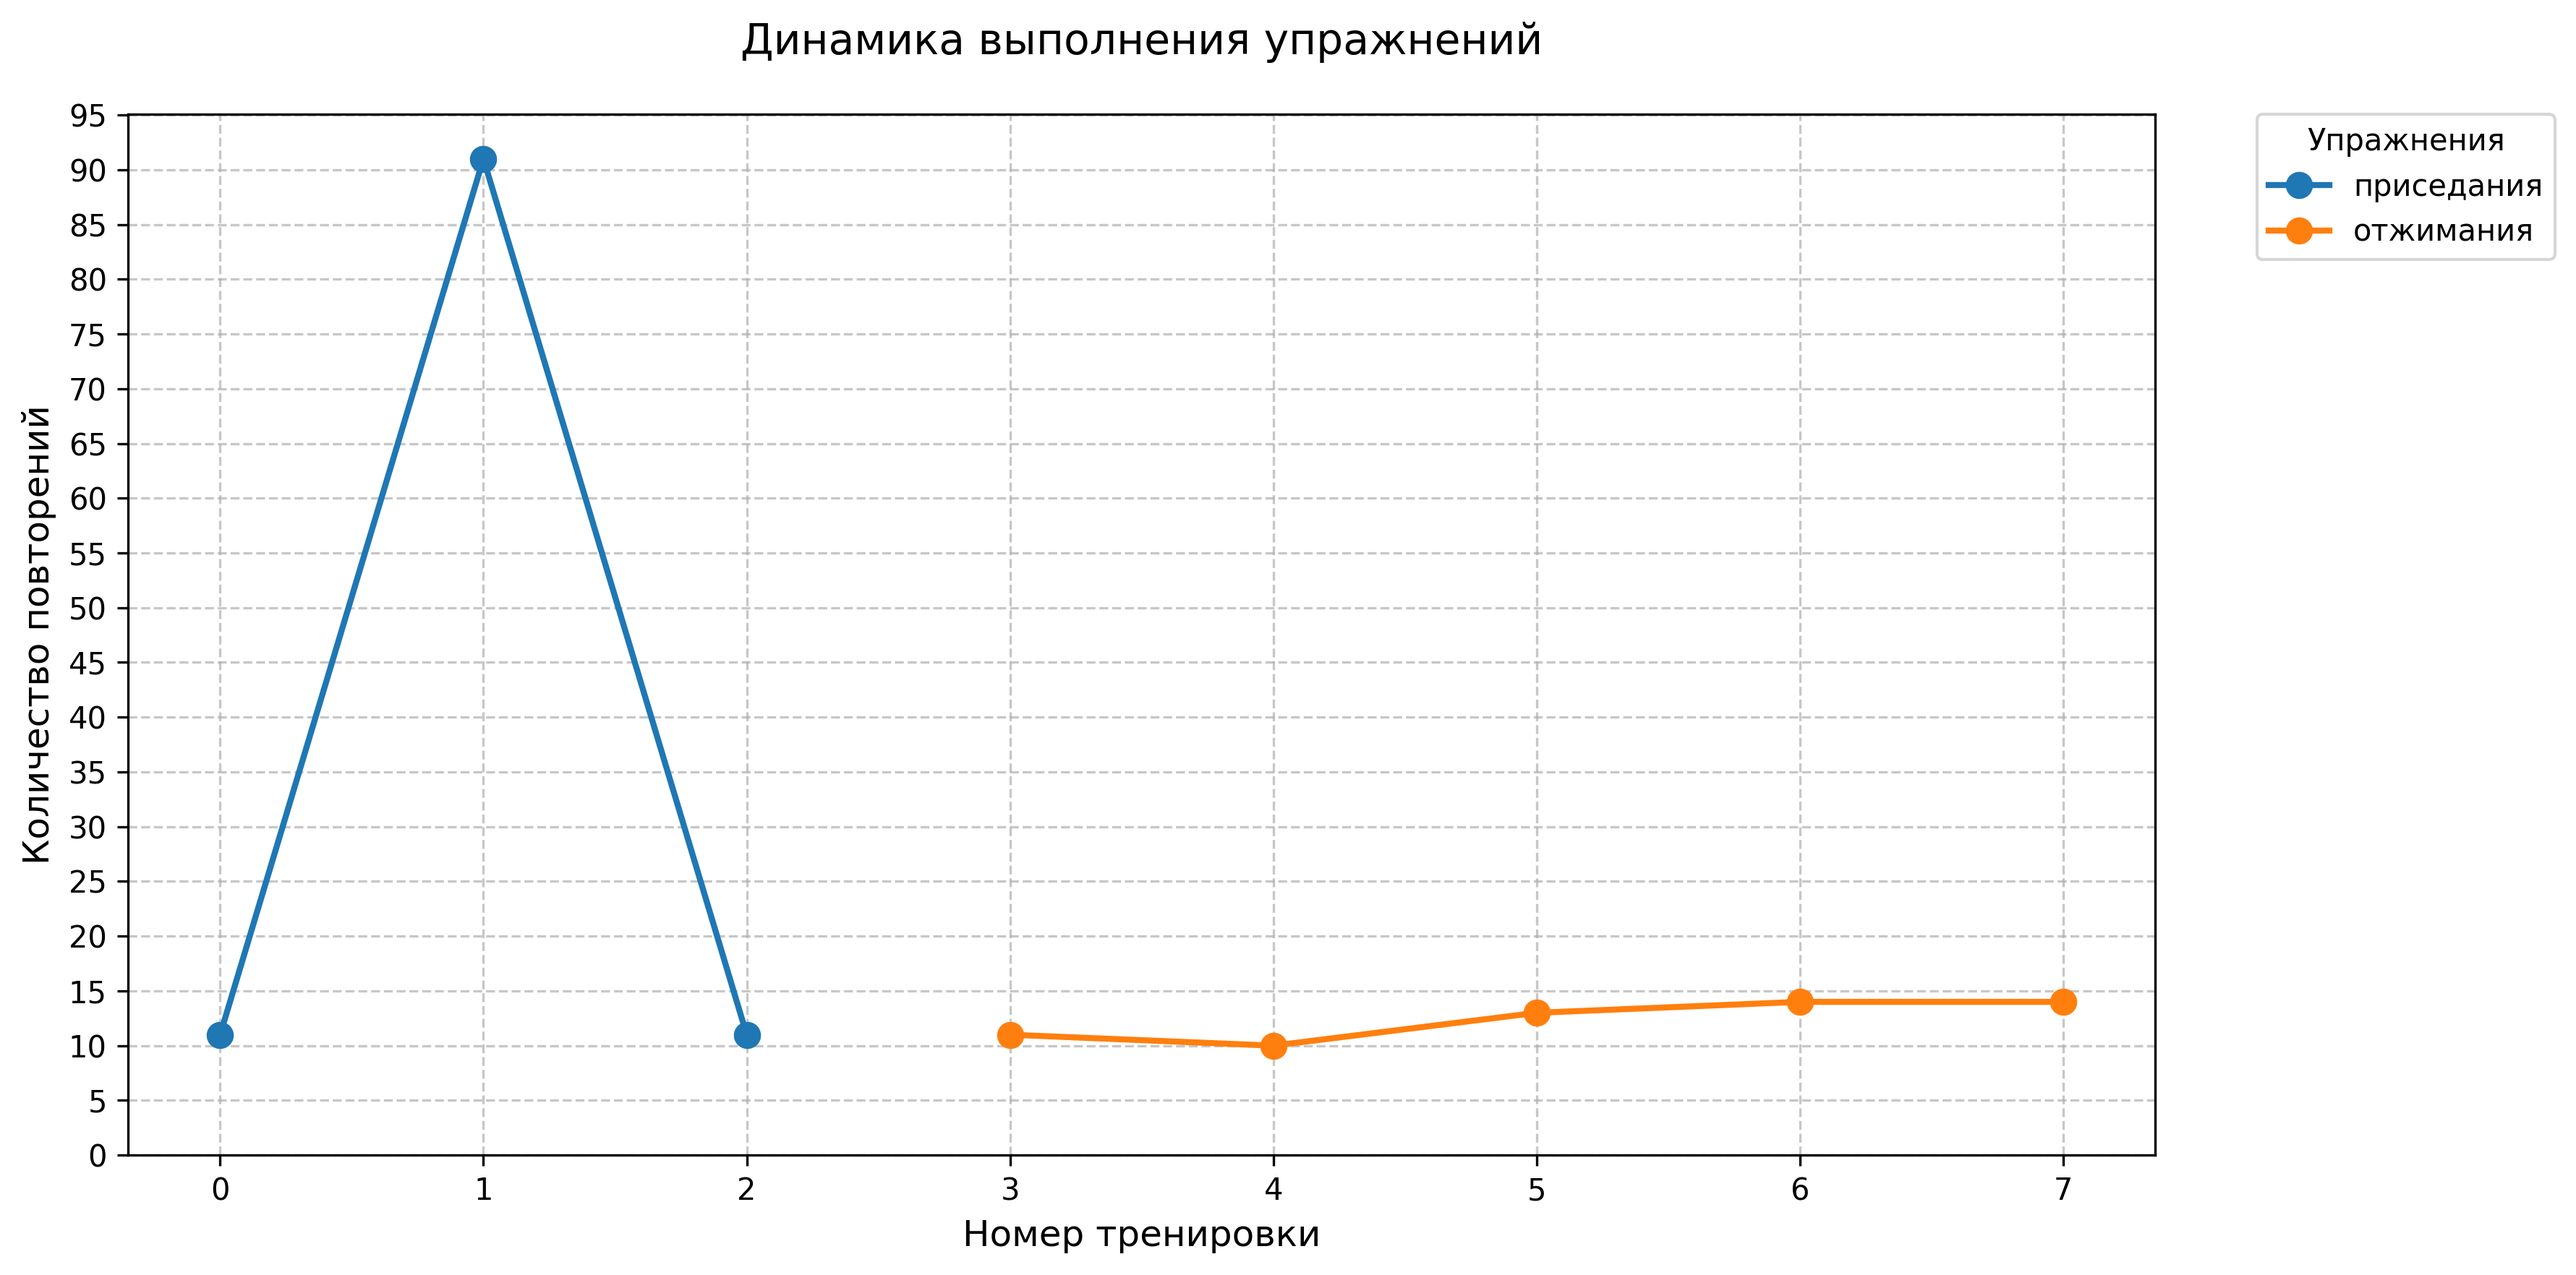
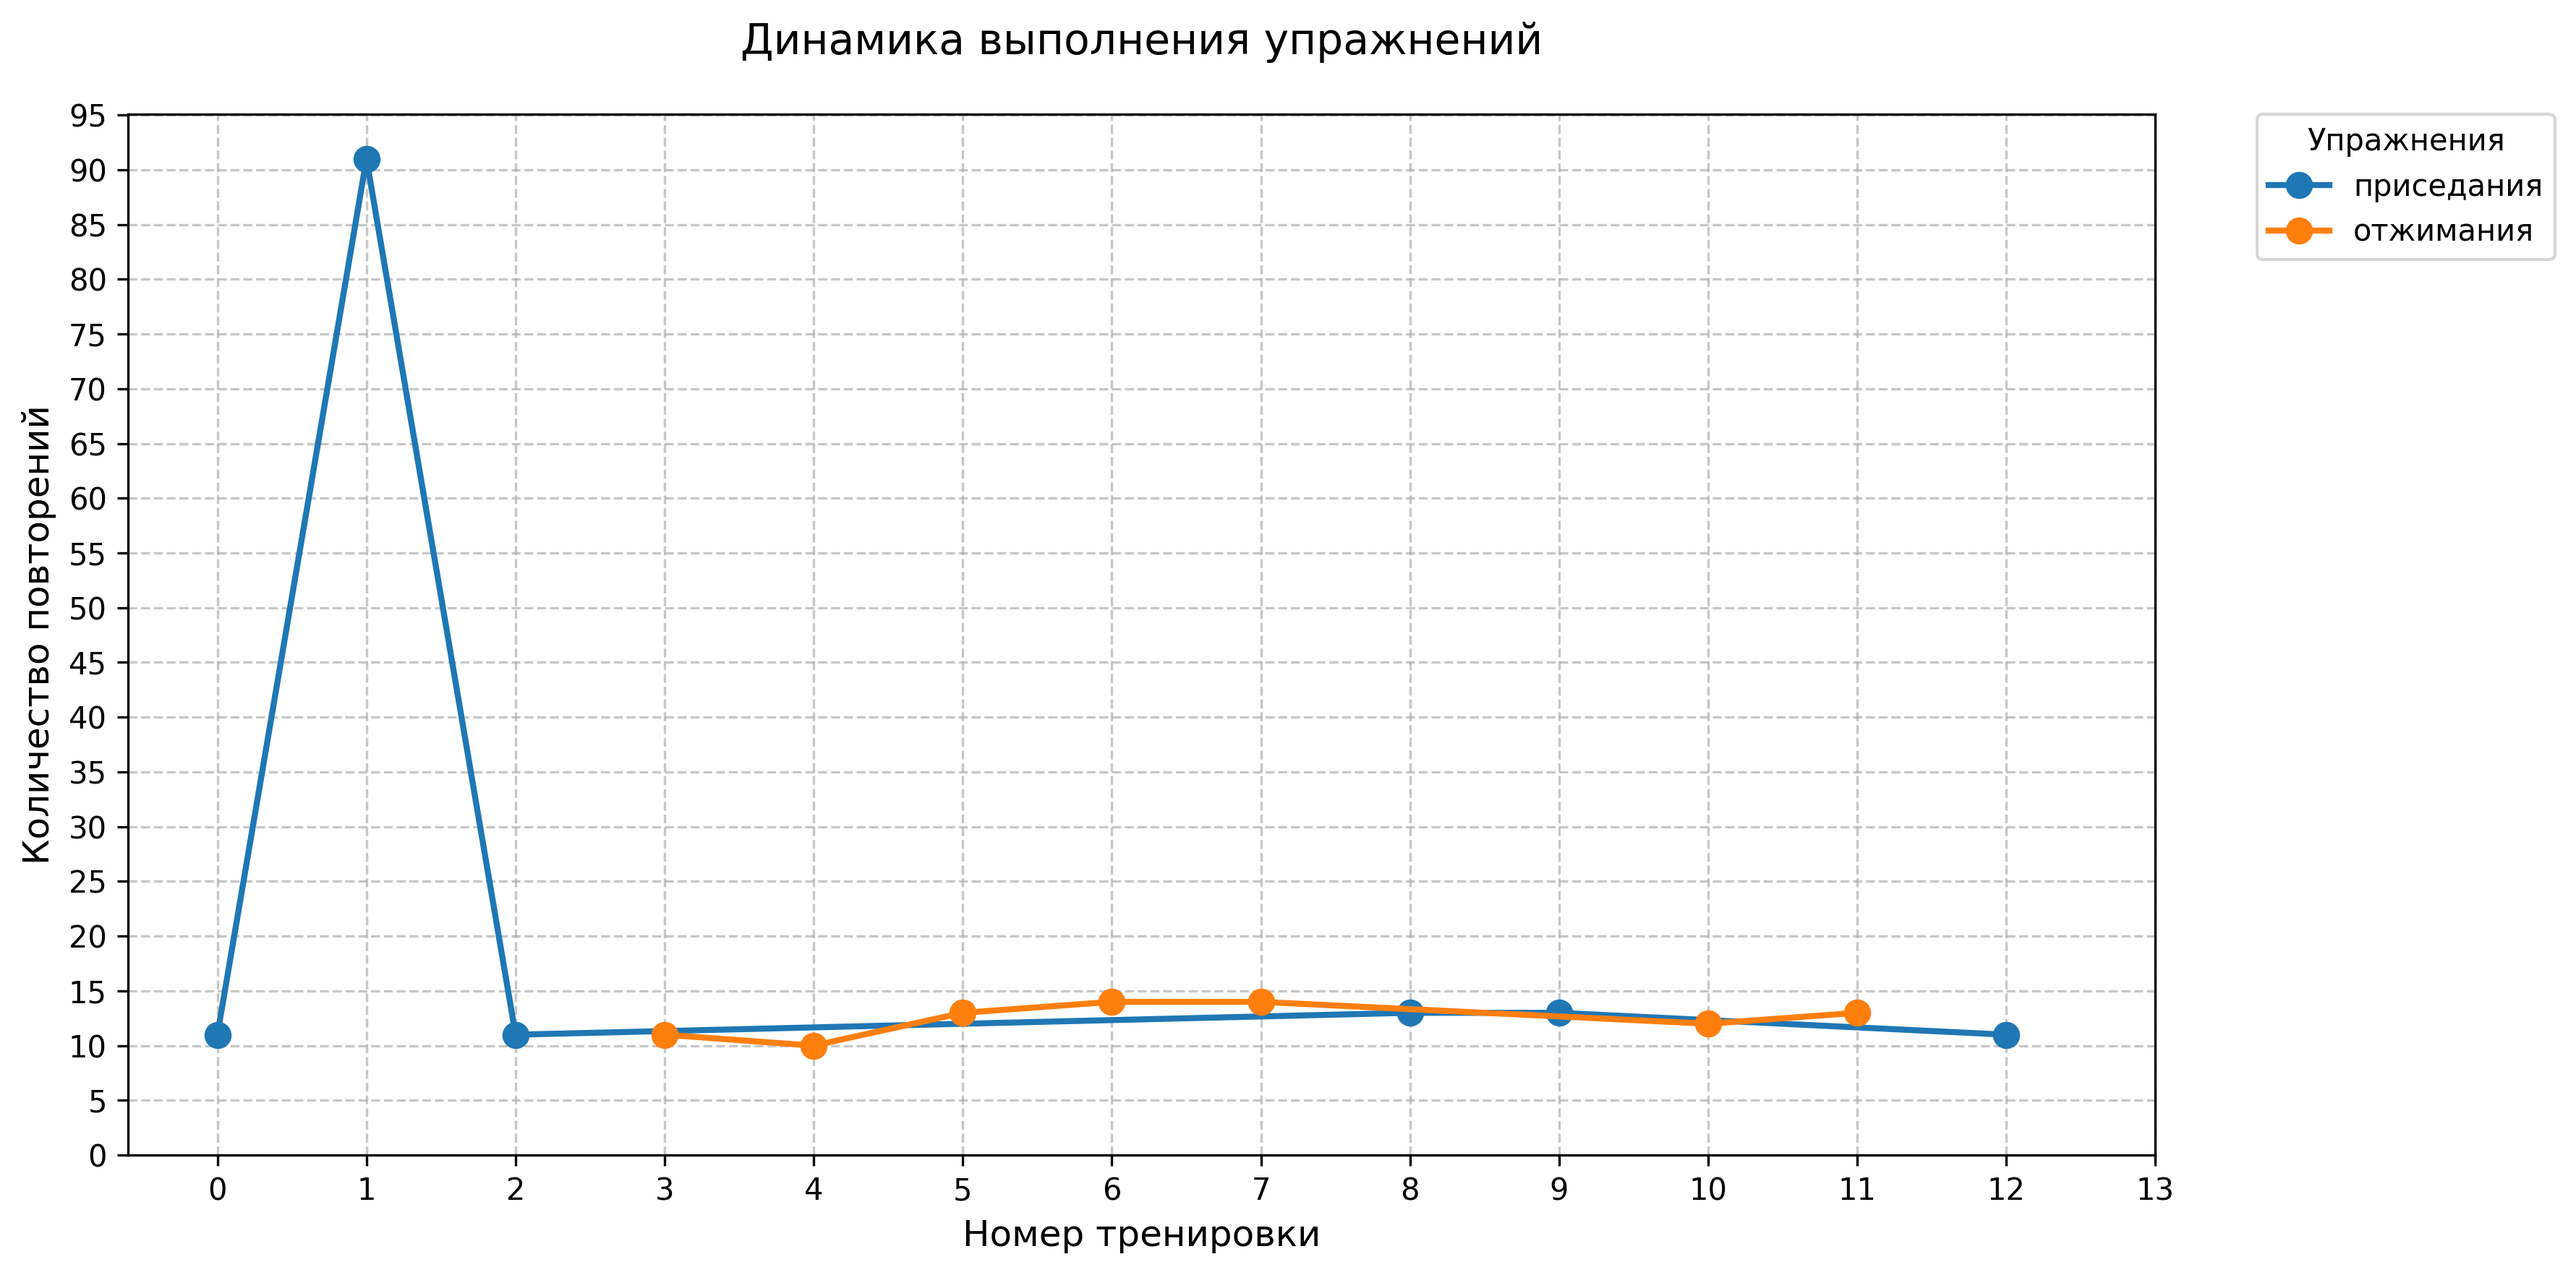
smth

diff --git a/static/index.css b/static/index.css
@@ -72,3 +72,52 @@ button:hover {
 a {
   text-decoration: none;
 }
+
+/* Стили для секции с графиком */
+#workout-graphics {
+  width: 50%;
+  height: 100%;
+  background: white;
+  padding: 25px;
+  box-sizing: border-box;
+  overflow-y: auto;
+  display: flex;
+  flex-direction: column;
+}
+
+#exercises-graphics {
+  color: #2c3e50;
+  text-align: center;
+  margin-bottom: 25px;
+  font-weight: 600;
+}
+
+#workout-graphics img {
+  max-width: 100%;
+  height: auto;
+  border: 1px solid #e0e0e0;
+  border-radius: 8px;
+  box-shadow: 0 2px 10px rgba(0, 0, 0, 0.1);
+  margin: 0 auto;
+  display: block;
+  background-color: #fff;
+  padding: 10px;
+}
+
+/* Медиа-запрос для мобильных устройств */
+@media (max-width: 768px) {
+  body {
+    flex-direction: column;
+    height: auto;
+  }
+
+  #todays-workout,
+  #workout-graphics {
+    width: 100%;
+    height: auto;
+  }
+
+  #workout-graphics {
+    border-top: 1px solid #e0e0e0;
+  }
+}

diff --git a/templates/index.html b/templates/index.html
@@ -36,9 +36,6 @@
         alt="График динамики выполнения упражнений"
         onerror="this.style.display='none'"
       />
-      {% if not file_exists('static/images/exercises_progress.png') %}
-      <p class="no-graph">График пока недоступен</p>
-      {% endif %}
     </div>
   </body>
 </html>

diff --git a/modules/my_csv.py b/modules/my_csv.py
@@ -38,7 +38,10 @@ def to_csv(user_id, exercise, amount):
 
 
 def plot_exercises(
-    csv_path=os.getenv("CSV_URL"), save_path=os.getenv("GRAPHICS_IMAGE_URL"), y_step=5
+    csv_path=os.getenv("CSV_URL"),
+    save_path=os.getenv("GRAPHICS_IMAGE_URL"),
+    y_step=5,
+    x_step=1,
 ):
     try:
         df = pd.read_csv(csv_path)
@@ -74,6 +77,7 @@ def plot_exercises(
     max_amount = df["amount"].max()
     y_max = ((max_amount // y_step) + 1) * y_step
     plt.yticks(np.arange(0, y_max + 1, y_step))
+    plt.xticks(np.arange(0, len(df) + 1, x_step))
     plt.grid(True, linestyle="--", alpha=0.7)
 
     plt.legend(

diff --git a/main.py b/main.py
@@ -180,6 +180,7 @@ def add_workout():
             csv_path=os.getenv("CSV_URL"),
             save_path=os.getenv("GRAPHICS_IMAGE_URL"),
             y_step=5,
+            x_step=1,
         )
 
         return redirect(url_for("index"))
